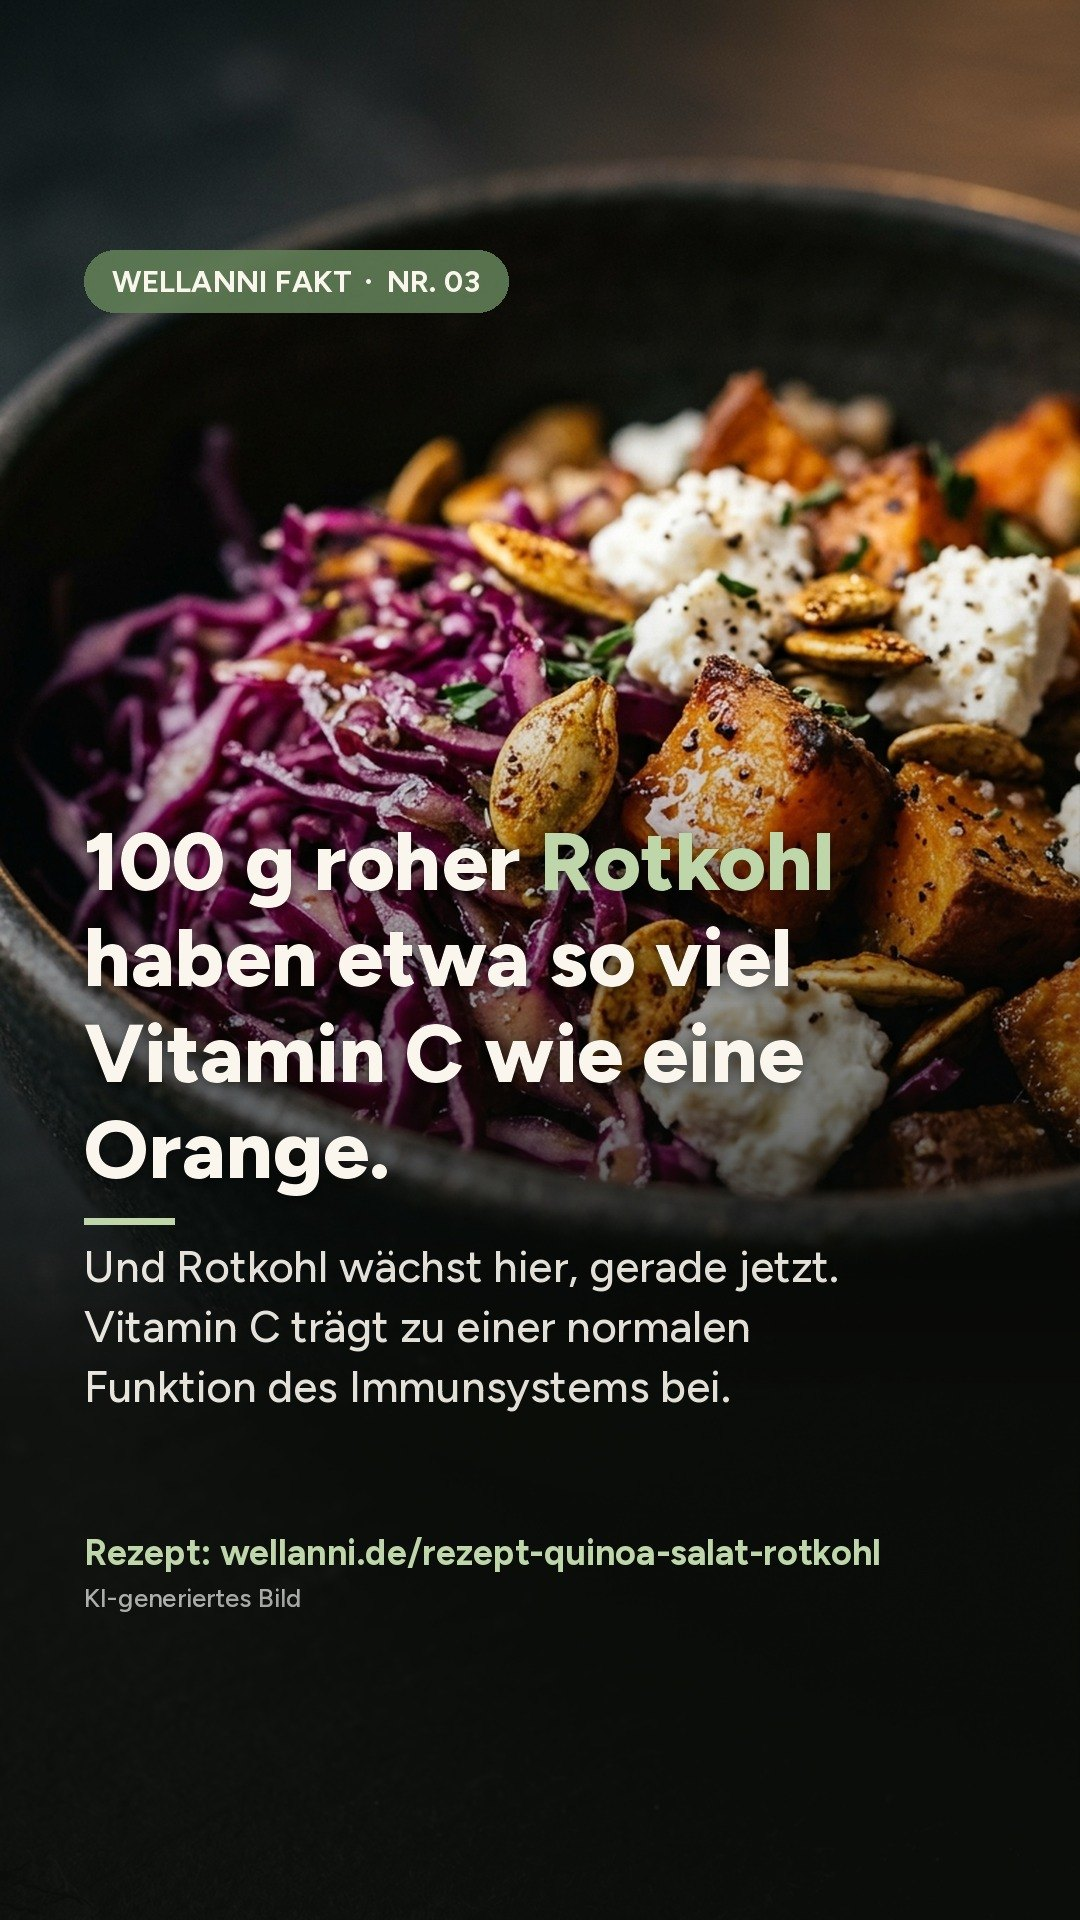
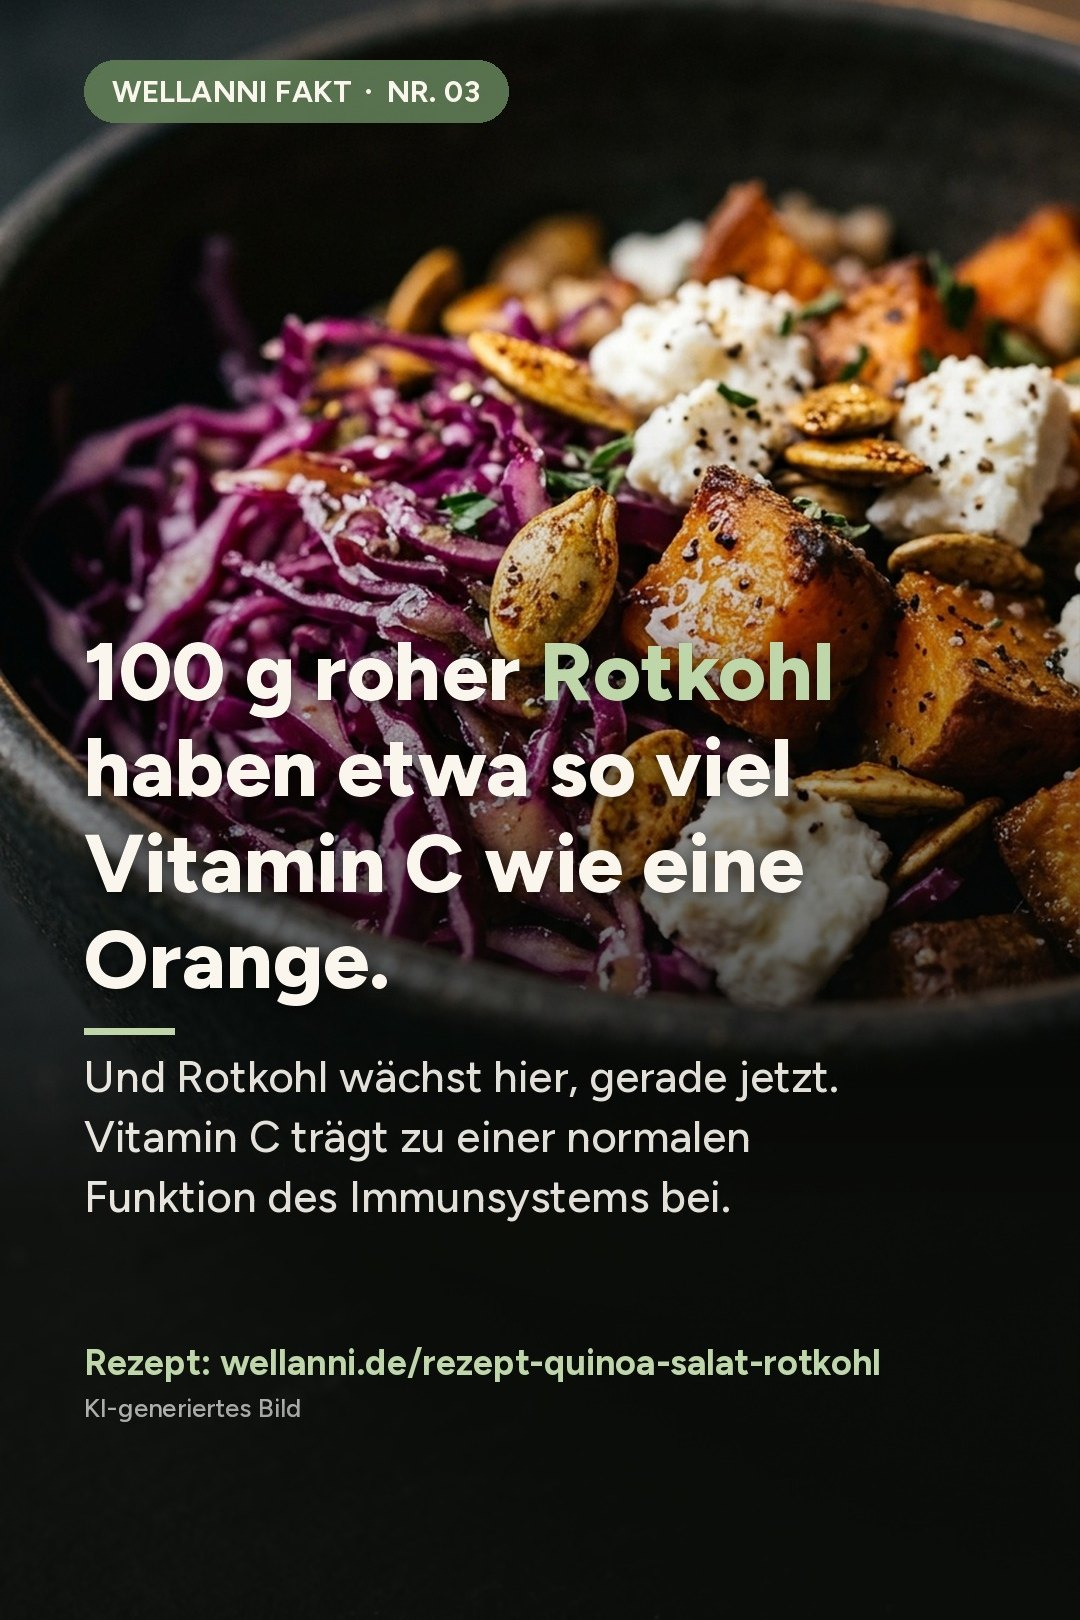
Fakten-Seite: Bilder im Pinterest-Format 2:3
Claude-Session: https://claude.ai/code/session_01BSvYL379fQBPRKvvDAZMqh

diff --git a/fakten.html b/fakten.html
@@ -37,7 +37,7 @@
       </section>
       <div class="collection-grid">
           <article class="collection-card recipe-card" id="fakt-01">
-            <span class="card-photo" style="aspect-ratio:9/16"><img src="img/fakten/wellanni-fakt-01.jpg" alt="Ein Spritzer Zitrone in die Linsensuppe ist kein Deko-Trick." loading="lazy" width="1080" height="1920"></span>
+            <span class="card-photo" style="aspect-ratio:2/3"><img src="img/fakten/wellanni-fakt-01.jpg" alt="Ein Spritzer Zitrone in die Linsensuppe ist kein Deko-Trick." loading="lazy" width="1080" height="1620"></span>
             <div class="kicker">WellANNI Fakt Nr. 01</div>
             <h3>Ein Spritzer Zitrone in die Linsensuppe ist kein Deko-Trick.</h3>
             <p>Linsen liefern Eisen. Zitronensaft liefert Vitamin C – und Vitamin C erhöht die Eisenaufnahme.</p>
@@ -45,7 +45,7 @@
             <div class="card-meta"><a href="rezept-rote-linsensuppe.html" style="color:inherit;font-weight:600;text-decoration:none">Zum Rezept: Rote Linsensuppe mit Zitrone →</a></div>
           </article>
           <article class="collection-card recipe-card" id="fakt-02">
-            <span class="card-photo" style="aspect-ratio:9/16"><img src="img/fakten/wellanni-fakt-02.jpg" alt="Von Oktober bis März bildet deine Haut kaum Vitamin D aus der Sonne." loading="lazy" width="1080" height="1920"></span>
+            <span class="card-photo" style="aspect-ratio:2/3"><img src="img/fakten/wellanni-fakt-02.jpg" alt="Von Oktober bis März bildet deine Haut kaum Vitamin D aus der Sonne." loading="lazy" width="1080" height="1620"></span>
             <div class="kicker">WellANNI Fakt Nr. 02</div>
             <h3>Von Oktober bis März bildet deine Haut kaum Vitamin D aus der Sonne.</h3>
             <p>Lachs gehört zu den wenigen Lebensmitteln mit nennenswert Vitamin D. Vitamin D trägt zu einer normalen Funktion des Immunsystems bei.</p>
@@ -53,7 +53,7 @@
             <div class="card-meta"><a href="rezept-lachs-auf-spinatbett.html" style="color:inherit;font-weight:600;text-decoration:none">Zum Rezept: Lachs auf Spinatbett →</a></div>
           </article>
           <article class="collection-card recipe-card" id="fakt-03">
-            <span class="card-photo" style="aspect-ratio:9/16"><img src="img/fakten/wellanni-fakt-03.jpg" alt="100 g roher Rotkohl haben etwa so viel Vitamin C wie eine Orange." loading="lazy" width="1080" height="1920"></span>
+            <span class="card-photo" style="aspect-ratio:2/3"><img src="img/fakten/wellanni-fakt-03.jpg" alt="100 g roher Rotkohl haben etwa so viel Vitamin C wie eine Orange." loading="lazy" width="1080" height="1620"></span>
             <div class="kicker">WellANNI Fakt Nr. 03</div>
             <h3>100 g roher Rotkohl haben etwa so viel Vitamin C wie eine Orange.</h3>
             <p>Und Rotkohl wächst hier, gerade jetzt. Vitamin C trägt zu einer normalen Funktion des Immunsystems bei.</p>
@@ -61,7 +61,7 @@
             <div class="card-meta"><a href="rezept-quinoa-salat-rotkohl.html" style="color:inherit;font-weight:600;text-decoration:none">Zum Rezept: Quinoa-Salat mit Rotkohl →</a></div>
           </article>
           <article class="collection-card recipe-card" id="fakt-04">
-            <span class="card-photo" style="aspect-ratio:9/16"><img src="img/fakten/wellanni-fakt-04.jpg" alt="Vor deinen Tagen mehr Hunger als sonst?" loading="lazy" width="1080" height="1920"></span>
+            <span class="card-photo" style="aspect-ratio:2/3"><img src="img/fakten/wellanni-fakt-04.jpg" alt="Vor deinen Tagen mehr Hunger als sonst?" loading="lazy" width="1080" height="1620"></span>
             <div class="kicker">WellANNI Fakt Nr. 04</div>
             <h3>Vor deinen Tagen mehr Hunger als sonst?</h3>
             <p>Studien zeigen: In der zweiten Zyklushälfte essen Frauen im Schnitt etwas mehr. Das ist Biologie – kein Disziplin-Problem.</p>
@@ -69,7 +69,7 @@
             <div class="card-meta"><a href="pms-zyklus.html" style="color:inherit;font-weight:600;text-decoration:none">Mehr dazu: Ernährung im Zyklus →</a></div>
           </article>
           <article class="collection-card recipe-card" id="fakt-05">
-            <span class="card-photo" style="aspect-ratio:9/16"><img src="img/fakten/wellanni-fakt-05.jpg" alt="21 Uhr, Lust auf was Süßes? 3 Minuten, kein Kochen." loading="lazy" width="1080" height="1920"></span>
+            <span class="card-photo" style="aspect-ratio:2/3"><img src="img/fakten/wellanni-fakt-05.jpg" alt="21 Uhr, Lust auf was Süßes? 3 Minuten, kein Kochen." loading="lazy" width="1080" height="1620"></span>
             <div class="kicker">WellANNI Fakt Nr. 05</div>
             <h3>21 Uhr, Lust auf was Süßes? 3 Minuten, kein Kochen.</h3>
             <p>200 g Skyr, Walnüsse, Zimt, ein Löffel Honig: rund 24 g Eiweiß. Eiweiß trägt zur Erhaltung von Muskelmasse bei.</p>
